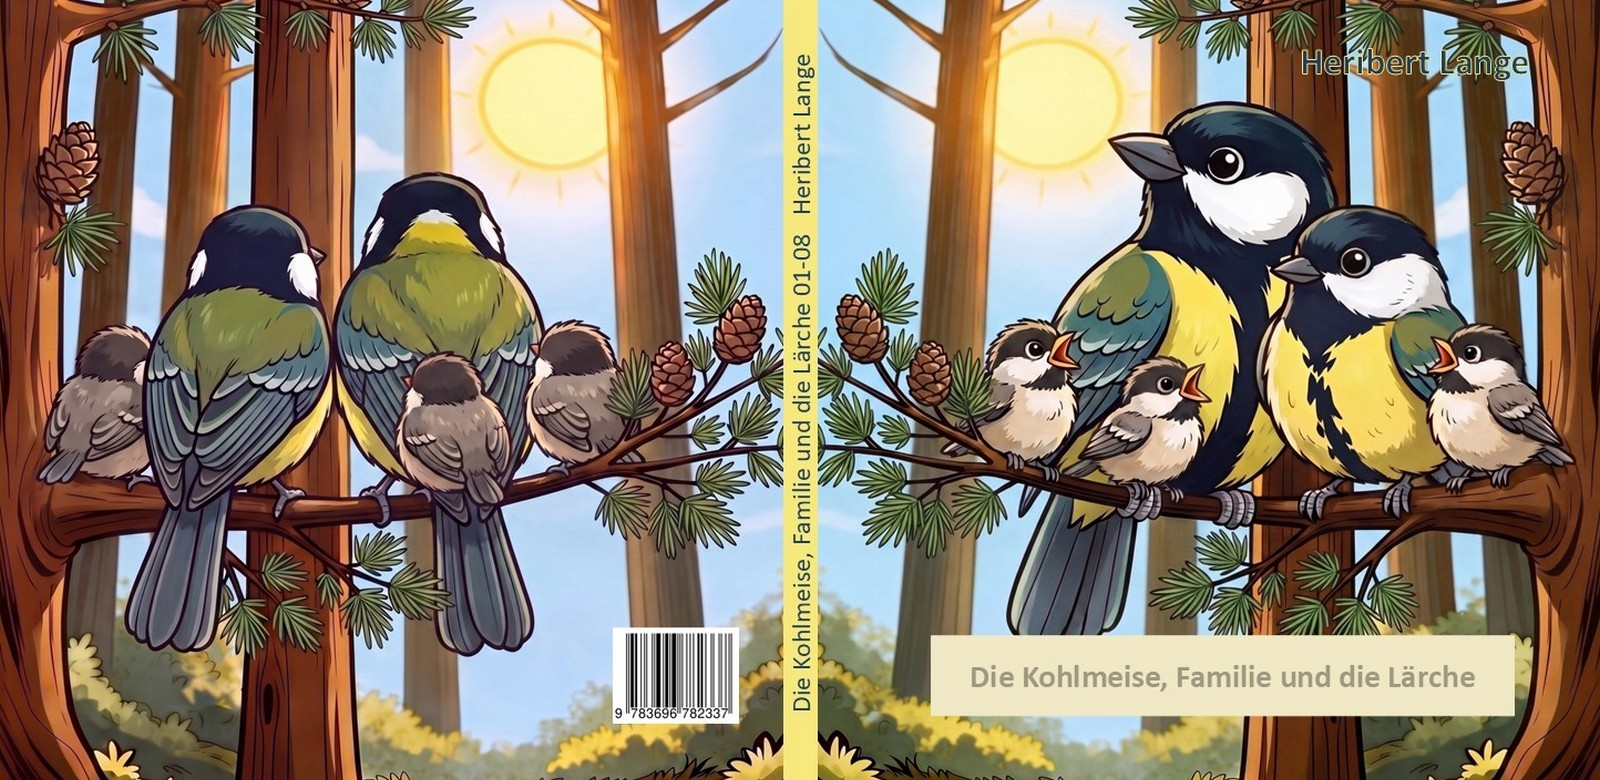
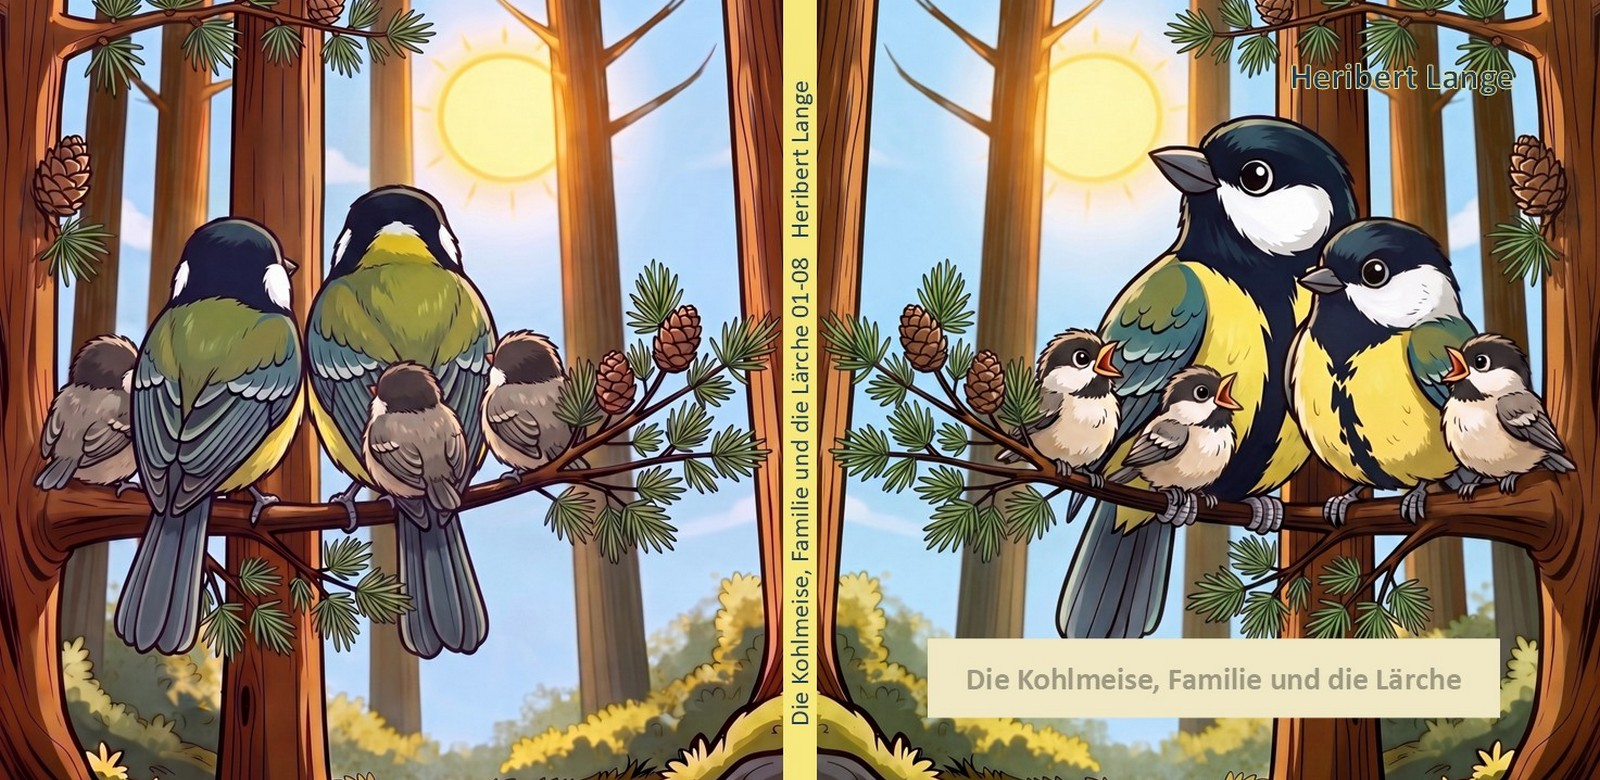
Staffel-Uebersicht: Band 01-10 (Wolf und Esche) als Vorschau ab 01.12.2026, Cover 01-08 ohne Barcode

diff --git a/kinderbuch-staffel1-detail.html b/kinderbuch-staffel1-detail.html
@@ -201,7 +201,14 @@
         </div>
         <div class="kachel-titel">Band 01-09 · Die Amsel, Familie und der Kirschbaum</div>
       </div>
-      <div class="kachel"><div class="kachel-bild"><span class="ph-icon">🦉</span></div><div class="kachel-titel">Band 10</div></div>
+      <div class="kachel" style="position:relative;cursor:default;">
+        <img src="WAL-01-10-PIC.jpg" alt="Band 01-10" style="width:100%;display:block;filter:grayscale(100%) brightness(0.4);">
+        <div style="position:absolute;top:0;left:0;right:0;bottom:0;display:flex;flex-direction:column;align-items:center;justify-content:center;padding:12px;text-align:center;">
+          <div style="font-size:1.5rem;margin-bottom:8px;">🗓</div>
+          <div style="color:var(--accent);font-size:0.85rem;letter-spacing:1px;line-height:1.6;">Erscheint ab<br><strong>01.12.2026</strong></div>
+        </div>
+        <div class="kachel-titel">Band 01-10 · Der Wolf, Familie und die Esche</div>
+      </div>
       <div class="kachel"><div class="kachel-bild"><span class="ph-icon">🦉</span></div><div class="kachel-titel">Band 11</div></div>
       <div class="kachel"><div class="kachel-bild"><span class="ph-icon">🦉</span></div><div class="kachel-titel">Band 12</div></div>
       <div class="kachel"><div class="kachel-bild"><span class="ph-icon">🦉</span></div><div class="kachel-titel">Band 13</div></div>
